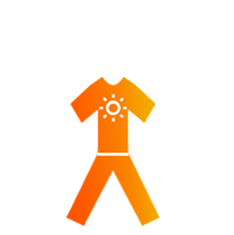
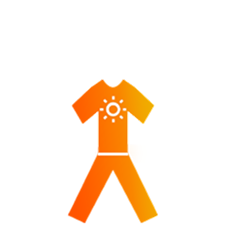
fixing survey

diff --git a/bot.py b/bot.py
@@ -1100,21 +1100,38 @@ async def process_hobbies(message: Message, state: FSMContext):
     await message.answer(text, reply_markup=get_main_keyboard(tg_id), parse_mode="Markdown")
 
 @dp.callback_query(F.data == "check_survey")
-async def handle_survey_menu(message: Message):
-    user = get_user(message.from_user.id)
-    if not user: return await message.answer("Сначала /start", reply_markup=get_main_keyboard(message.from_user.id))
-
+async def handle_survey_menu(callback: CallbackQuery):
+    tg_id = callback.from_user.id
+    user = get_user(tg_id)
+    if not user:
+        return await callback.message.answer("Сначала /start", reply_markup=get_main_keyboard(tg_id))
+    
     if not user.get("survey_completed"):
-        kb = InlineKeyboardMarkup(inline_keyboard=[[InlineKeyboardButton(text="📝 Заполнить анкету (+5 вайбов)", callback_data="start_survey")]])
-        await message.answer("Ты ещё не заполнил анкету. Это займет пару минут, а взамен **5 вайбов**!", reply_markup=kb)
+        kb = InlineKeyboardMarkup(inline_keyboard=[[
+            InlineKeyboardButton(text="📝 Заполнить анкету (+5 вайбов)", callback_data="start_survey")
+        ]])
+        await callback.message.answer(
+            "Ты ещё не заполнил анкету. Это займет пару минут, а взамен **5 вайбов**!",
+            reply_markup=kb,
+            parse_mode="Markdown"
+        )
     else:
-        text = (f"📋 **Твоя анкета:**\n\n👥 Команда: {user['team'] or 'Не указано'}\n🔥 Опыт: {user['experience'] or 'Не указано'}\n🎂 ДР: {user['birthday'] or 'Не указано'}\n📚 Группа: {user['study_group'] or 'Не указано'}\n🎨 Хобби: {user['hobbies'] or 'Не указано'}\n\nХочешь изменить?")
+        text = (f"📋 **Твоя анкета:**\n\n"
+                f"👥 Команда: {user['team'] or 'Не указано'}\n"
+                f"🔥 Опыт: {user['experience'] or 'Не указано'}\n"
+                f"🎂 ДР: {user['birthday'] or 'Не указано'}\n"
+                f"📚 Группа: {user['study_group'] or 'Не указано'}\n"
+                f"🎨 Хобби: {user['hobbies'] or 'Не указано'}\n\n"
+                f"Хочешь изменить?")
         kb = InlineKeyboardMarkup(inline_keyboard=[
-            [InlineKeyboardButton(text="✏ Команда", callback_data="edit_team"), InlineKeyboardButton(text="✏ Опыт", callback_data="edit_shifts")],
-            [InlineKeyboardButton(text="✏ ДР", callback_data="edit_birthday"), InlineKeyboardButton(text="✏ Группа", callback_data="edit_study_group")],
+            [InlineKeyboardButton(text="✏ Команда", callback_data="edit_team"),
+             InlineKeyboardButton(text="✏ Опыт", callback_data="edit_shifts")],
+            [InlineKeyboardButton(text="✏ ДР", callback_data="edit_birthday"),
+             InlineKeyboardButton(text="✏ Группа", callback_data="edit_study_group")],
             [InlineKeyboardButton(text="✏ Хобби", callback_data="edit_hobbies")]
         ])
-        await message.answer(text, reply_markup=kb, parse_mode="Markdown")
+        await callback.message.answer(text, reply_markup=kb, parse_mode="Markdown")
+    await callback.answer()
 
 @dp.callback_query(F.data.startswith("edit_"))
 async def start_edit(callback: CallbackQuery, state: FSMContext):
